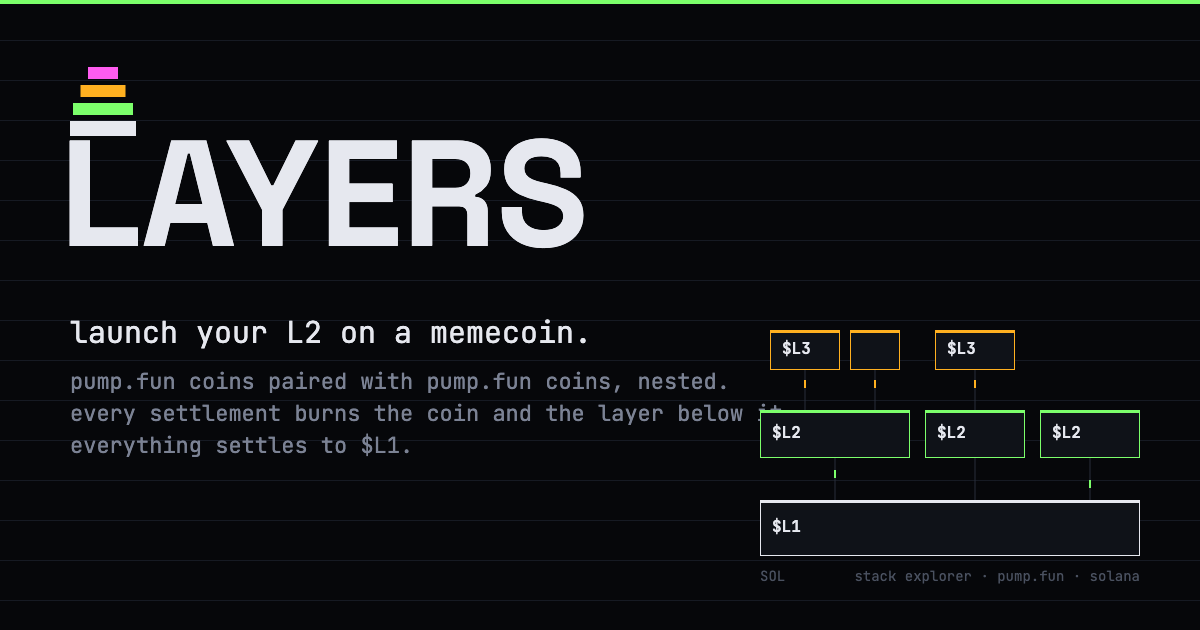
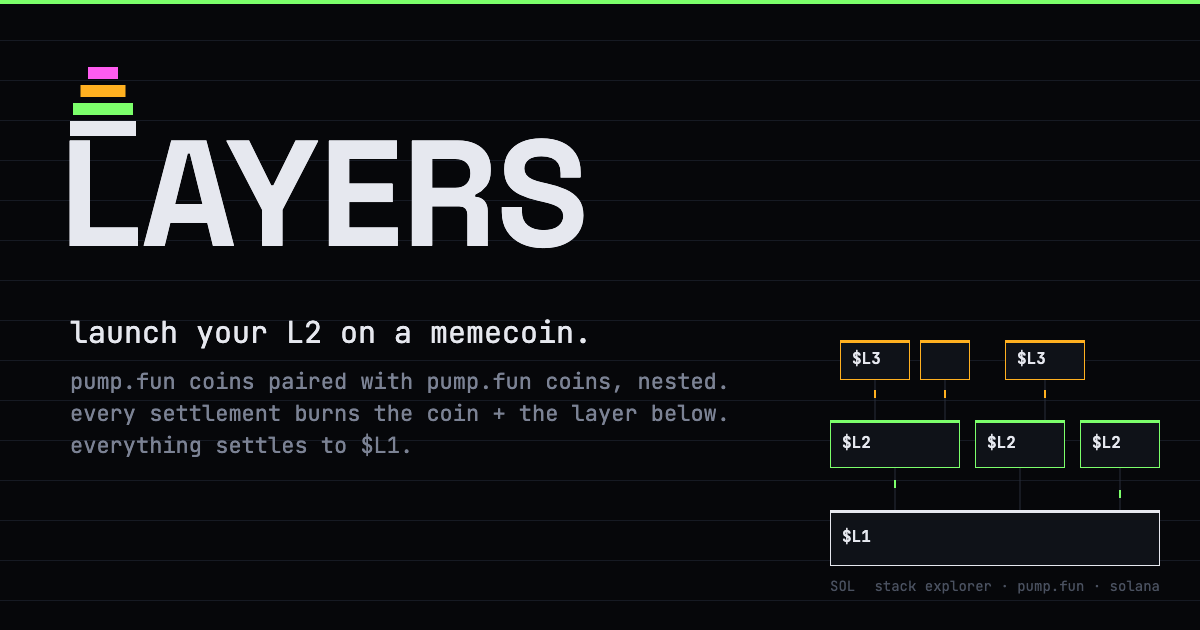
og.png: keep the tagline clear of the stack diagram

diff --git a/backend/public/brand.html b/backend/public/brand.html
@@ -24,16 +24,16 @@ async function render() {
   glyph(c, 70, 70, 3);
   c.fillStyle = "#e6e8ef"; c.font = "700 150px 'Space Grotesk', sans-serif"; c.textBaseline = "top"; c.textAlign = "left"; c.fillText("LAYERS", 60, 130);
   c.font = "400 30px 'JetBrains Mono', monospace"; c.fillStyle = "#e6e8ef"; c.fillText("launch your L2 on a memecoin.", 70, 320);
-  c.fillStyle = "#7b8294"; c.font = "400 22px 'JetBrains Mono', monospace"; c.fillText("pump.fun coins paired with pump.fun coins, nested.", 70, 372); c.fillText("every settlement burns the coin and the layer below it.", 70, 404); c.fillText("everything settles to $L1.", 70, 436);
+  c.fillStyle = "#7b8294"; c.font = "400 22px 'JetBrains Mono', monospace"; c.fillText("pump.fun coins paired with pump.fun coins, nested.", 70, 372); c.fillText("every settlement burns the coin + the layer below.", 70, 404); c.fillText("everything settles to $L1.", 70, 436);
   // a small stack diagram, bottom right
-  const bx = 760, by = 300, w = 380;
+  const bx = 830, by = 310, w = 330;
   const block = (x, y, bw, h, col, label) => { c.fillStyle = "#0f1218"; c.fillRect(x, y, bw, h); c.strokeStyle = col; c.strokeRect(x + 0.5, y + 0.5, bw - 1, h - 1); c.fillStyle = col; c.fillRect(x, y, bw, 3); if (label) { c.fillStyle = "#e6e8ef"; c.font = "600 16px 'JetBrains Mono', monospace"; c.textBaseline = "middle"; c.fillText(label, x + 12, y + h / 2); } };
   block(bx, by + 200, w, 56, "#e6e8ef", "$L1");
-  for (const [i, l] of [["$L2", 0, 150], ["$L2", 165, 100], ["$L2", 280, 100]].entries()) block(bx + l[1], by + 110, l[2], 48, "#7cff6b", l[0]);
+  for (const [i, l] of [["$L2", 0, 130], ["$L2", 145, 90], ["$L2", 250, 80]].entries()) block(bx + l[1], by + 110, l[2], 48, "#7cff6b", l[0]);
   block(bx + 10, by + 30, 70, 40, "#ffb020", "$L3"); block(bx + 90, by + 30, 50, 40, "#ffb020", ""); block(bx + 175, by + 30, 80, 40, "#ffb020", "$L3");
-  c.strokeStyle = "#272d3a"; for (const x of [bx + 75, bx + 215, bx + 330]) { c.beginPath(); c.moveTo(x, by + 158); c.lineTo(x, by + 200); c.stroke(); }
+  c.strokeStyle = "#272d3a"; for (const x of [bx + 65, bx + 190, bx + 290]) { c.beginPath(); c.moveTo(x, by + 158); c.lineTo(x, by + 200); c.stroke(); }
   for (const x of [bx + 45, bx + 115, bx + 215]) { c.beginPath(); c.moveTo(x, by + 70); c.lineTo(x, by + 110); c.stroke(); c.fillStyle = "#ffb020"; c.fillRect(x - 1, by + 80, 2, 8); }
-  c.fillStyle = "#7cff6b"; c.fillRect(bx + 74, by + 170, 2, 8); c.fillRect(bx + 329, by + 180, 2, 8);
+  c.fillStyle = "#7cff6b"; c.fillRect(bx + 64, by + 170, 2, 8); c.fillRect(bx + 289, by + 180, 2, 8);
   c.fillStyle = "#4a5160"; c.font = "400 14px 'JetBrains Mono', monospace"; c.textBaseline = "top"; c.fillText("SOL", bx, by + 270); c.textAlign = "right"; c.fillText("stack explorer · pump.fun · solana", bx + w, by + 270);
   c.fillStyle = "#7cff6b"; c.fillRect(0, 0, 1200, 4);
   window.__done = true;
